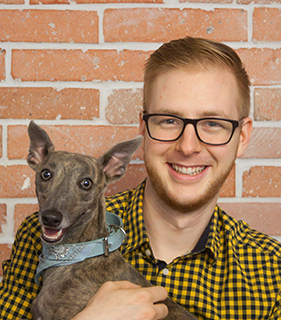
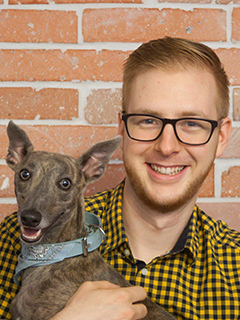
PICTURE SIZE FIXING: The picture size of Dani's picture was wrong :)

diff --git a/static/css/style.css b/static/css/style.css
@@ -16,8 +16,6 @@
     cursor: pointer;
     border: 1px solid black;
     display: inline-block;
-    width: 65px;
-    height: 80px;
     font-size: 35px;
     text-align: center;
     margin: 3px;
@@ -39,10 +37,3 @@ body{
     max-width: 25%;
 }
 
-
-
-
-img {
-    width: 65px;
-    height: 80px;
-}
